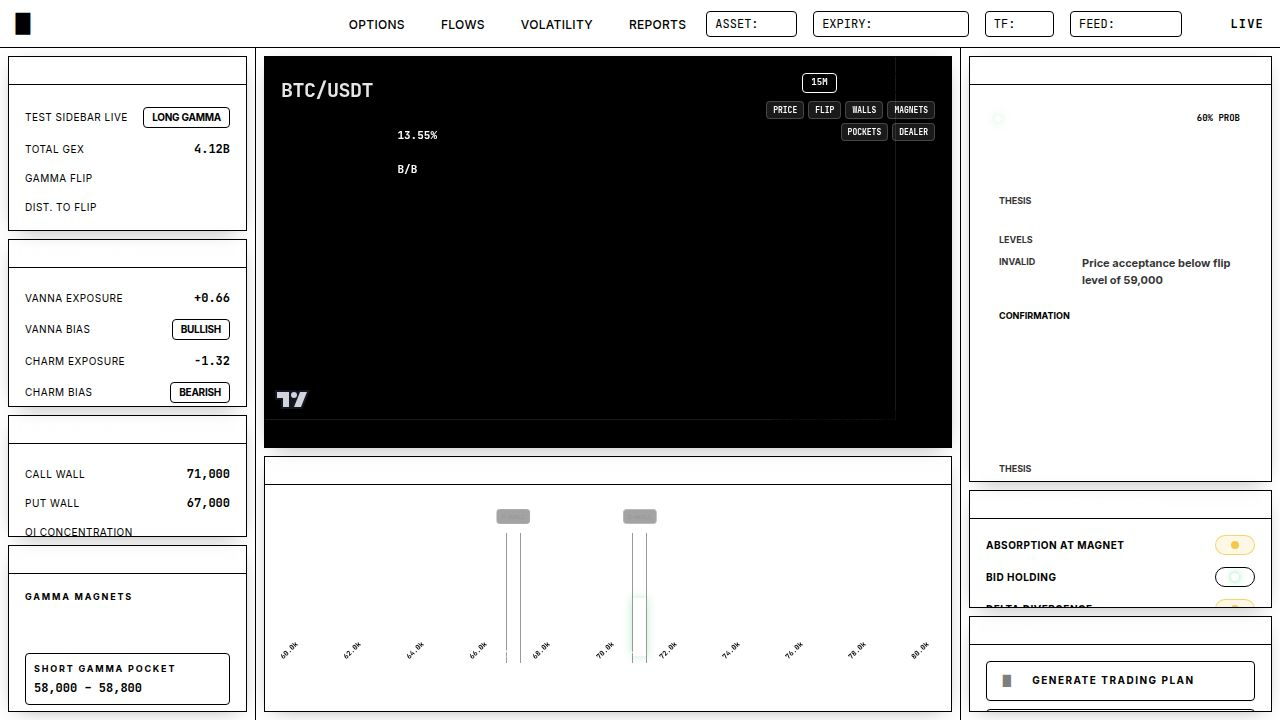
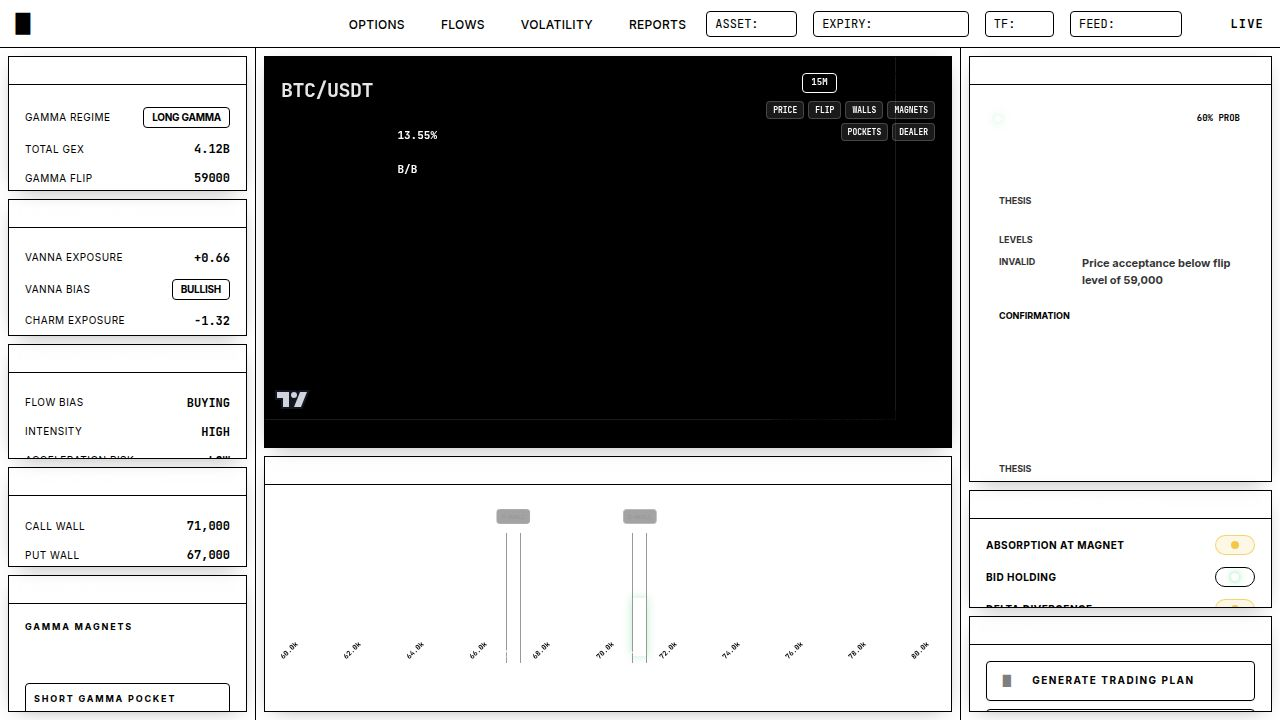
Add dealer hedging flow analysis and refine gamma pressure calculation
Integrate a new Dealer Hedging Flow module, including backend calculations, API endpoint, and UI display. Refine the Gamma Pressure metric for increased sensitivity and meaningful output.

Replit-Commit-Author: Agent
Replit-Commit-Session-Id: f6c5170a-22e2-47a2-be42-87f4565b3f5b
Replit-Commit-Checkpoint-Type: full_checkpoint
Replit-Commit-Event-Id: a586740a-4a23-4717-a480-50467d6e0d43
Replit-Commit-Screenshot-Url: https://storage.googleapis.com/screenshot-production-us-central1/0816ca60-048d-4c47-9f02-2b324f40955c/f6c5170a-22e2-47a2-be42-87f4565b3f5b/LTFxBRZ
Replit-Helium-Checkpoint-Created: true

Changed region(s): [[0.0, 0.2444, 0.1875, 0.8861], [0.0, 0.9167, 0.1562, 0.9778], [0.0, 0.1528, 0.0938, 0.1833]]

diff --git a/server/storage.ts b/server/storage.ts
@@ -1,6 +1,6 @@
 import { 
-  marketState, dealerExposure, optionsPositioning, keyLevels, tradingScenarios, optionsData,
-  type MarketState, type DealerExposure, type OptionsPositioning, type KeyLevels, type TradingScenario, type OptionData
+  marketState, dealerExposure, optionsPositioning, keyLevels, tradingScenarios, optionsData, dealerHedgingFlow,
+  type MarketState, type DealerExposure, type OptionsPositioning, type KeyLevels, type TradingScenario, type OptionData, type DealerHedgingFlow
 } from "@shared/schema";
 import { parseOptionsCSV, calculateGEX, findGammaFlip, calculateVanna, calculateCharm, detectWalls, calculateKeyLevels, calculateAcceleration } from "./analytics";
 import { generateDynamicScenarios } from "./scenarios";
@@ -13,6 +13,7 @@ export interface IStorage {
   getKeyLevels(): Promise<KeyLevels | undefined>;
   getTradingScenarios(): Promise<TradingScenario[]>;
   getOptionsData(): Promise<OptionData[]>;
+  getDealerHedgingFlow(): Promise<DealerHedgingFlow | undefined>;
   recomputeAll(csvPath: string): Promise<void>;
 }
 
@@ -23,6 +24,7 @@ export class MemStorage implements IStorage {
   private keyLevels: KeyLevels | undefined;
   private tradingScenarios: TradingScenario[] = [];
   private optionsData: OptionData[] = [];
+  private dealerHedgingFlow: DealerHedgingFlow | undefined;
 
   constructor() {
     const csvPath = path.resolve(process.cwd(), "data", "deribit_options.csv");
@@ -77,12 +79,19 @@ export class MemStorage implements IStorage {
     const vanna = calculateVanna(data, spotPrice);
     const charm = calculateCharm(data, spotPrice);
     
+    let rawGammaPressure = 0;
+    data.forEach(d => {
+      const distancePct = Math.abs(d.strike - spotPrice) / spotPrice;
+      const spotWeight = Math.max(0.15, 1 - distancePct * 10);
+      rawGammaPressure += d.gamma * d.open_interest * spotWeight;
+    });
+
+    const totalAbsGamma = data.reduce((acc, d) => acc + Math.abs(d.gamma * d.open_interest), 0);
+    const gammaPressureValue = totalAbsGamma > 0 ? (rawGammaPressure / totalAbsGamma) : 0;
+    const normalizedPressure = Math.tanh(gammaPressureValue * 5); // Increased sensitivity
+    
     const totalOI = data.reduce((acc, d) => acc + d.open_interest, 0);
     const totalGammaExp = data.reduce((acc, d) => acc + (d.gamma * d.open_interest), 0);
-    const rawPressure = totalOI > 0 ? (totalGammaExp / totalOI) * spotPrice : 0;
-    const normalizedPressure = Math.tanh(rawPressure / 1000000);
-    
-    const totalAbsGamma = data.reduce((acc, d) => acc + Math.abs(d.gamma * d.open_interest), 0);
     const concentration = totalAbsGamma > 0 ? Math.abs(totalGammaExp) / totalAbsGamma : 0;
 
     const de: DealerExposure = {
@@ -96,6 +105,34 @@ export class MemStorage implements IStorage {
       timestamp: new Date()
     };
     this.dealerExposure = de;
+
+    // DEALER HEDGING FLOW CALCULATION
+    const hedgeFlowBias = (ms.gammaRegime === "LONG GAMMA") 
+      ? (de.vannaBias === "BULLISH" || de.charmBias === "BULLISH" ? "BUYING" : "NEUTRAL")
+      : (de.vannaBias === "BEARISH" || de.charmBias === "BEARISH" ? "SELLING" : "NEUTRAL");
+
+    const flowIntensityScore = Math.abs(de.vannaExposure) + Math.abs(de.charmExposure);
+    const hedgeFlowIntensity = flowIntensityScore > 1.0 ? "HIGH" : flowIntensityScore > 0.4 ? "MEDIUM" : "LOW";
+
+    const accelerationRisk = (ms.gammaRegime === "SHORT GAMMA" && (de.vannaBias === "BEARISH" || de.charmBias === "BEARISH")) ? "HIGH" : "LOW";
+
+    const flowTriggerUp = [op.dealerPivot, ms.gammaFlip, op.callWall]
+      .filter(l => l > spotPrice)
+      .sort((a, b) => a - b)[0] || op.callWall;
+
+    const flowTriggerDown = [op.dealerPivot, ms.gammaFlip, op.putWall]
+      .filter(l => l < spotPrice)
+      .sort((a, b) => b - a)[0] || op.putWall;
+
+    this.dealerHedgingFlow = {
+      id: 1,
+      hedgeFlowBias,
+      hedgeFlowIntensity,
+      accelerationRisk,
+      flowTriggerUp,
+      flowTriggerDown,
+      timestamp: new Date()
+    };
 
     this.tradingScenarios = generateDynamicScenarios(ms, op, kl, de);
 
@@ -118,6 +155,7 @@ export class MemStorage implements IStorage {
   async getKeyLevels() { return this.keyLevels; }
   async getTradingScenarios() { return this.tradingScenarios; }
   async getOptionsData() { return this.optionsData; }
+  async getDealerHedgingFlow() { return this.dealerHedgingFlow; }
 }
 
 export const storage = new MemStorage();

diff --git a/client/src/components/terminal/LeftSidebar.tsx b/client/src/components/terminal/LeftSidebar.tsx
@@ -1,6 +1,6 @@
 import { useQuery } from "@tanstack/react-query";
 import { TerminalPanel, TerminalValue } from "./TerminalPanel";
-import { MarketState, DealerExposure, OptionsPositioning, KeyLevels } from "@shared/schema";
+import { MarketState, DealerExposure, OptionsPositioning, KeyLevels, DealerHedgingFlow } from "@shared/schema";
 
 export function LeftSidebar() {
   const { data: market } = useQuery<MarketState>({ 
@@ -10,6 +10,11 @@ export function LeftSidebar() {
   
   const { data: dealer } = useQuery<DealerExposure>({ 
     queryKey: ["/api/dealer-exposure"],
+    refetchInterval: 5000 
+  });
+
+  const { data: flow } = useQuery<DealerHedgingFlow>({ 
+    queryKey: ["/api/dealer-hedging-flow"],
     refetchInterval: 5000 
   });
 
@@ -45,6 +50,14 @@ export function LeftSidebar() {
         <TerminalValue label="Charm Bias" value={dealer?.charmBias ?? "--"} trend={dealer?.charmBias === "BULLISH" ? "positive" : "negative"} isBadge />
         <TerminalValue label="Gamma Pressure" value={dealer?.gammaPressure ?? "--"} />
         <TerminalValue label="Gamma Concen." value={dealer ? dealer.gammaConcentration.toFixed(2) : "--"} />
+      </TerminalPanel>
+
+      <TerminalPanel title="DEALER HEDGING FLOW">
+        <TerminalValue label="Flow Bias" value={flow?.hedgeFlowBias ?? "--"} trend={flow?.hedgeFlowBias === "BUYING" ? "positive" : flow?.hedgeFlowBias === "SELLING" ? "negative" : "neutral"} />
+        <TerminalValue label="Intensity" value={flow?.hedgeFlowIntensity ?? "--"} />
+        <TerminalValue label="Acceleration Risk" value={flow?.accelerationRisk ?? "--"} trend={flow?.accelerationRisk === "HIGH" ? "negative" : "positive"} />
+        <TerminalValue label="Trigger Up" value={flow?.flowTriggerUp ? Math.round(flow.flowTriggerUp).toLocaleString() : "--"} />
+        <TerminalValue label="Trigger Down" value={flow?.flowTriggerDown ? Math.round(flow.flowTriggerDown).toLocaleString() : "--"} />
       </TerminalPanel>
 
       <TerminalPanel title="OPTIONS POSITIONING">

diff --git a/shared/schema.ts b/shared/schema.ts
@@ -66,12 +66,23 @@ export const optionsData = pgTable("options_data", {
   timestamp: timestamp("timestamp").defaultNow().notNull(),
 });
 
+export const dealerHedgingFlow = pgTable("dealer_hedging_flow", {
+  id: serial("id").primaryKey(),
+  hedgeFlowBias: text("hedge_flow_bias").notNull(), // "BUYING" | "SELLING" | "NEUTRAL"
+  hedgeFlowIntensity: text("hedge_flow_intensity").notNull(), // "LOW" | "MEDIUM" | "HIGH"
+  accelerationRisk: text("acceleration_risk").notNull(), // "LOW" | "HIGH"
+  flowTriggerUp: doublePrecision("flow_trigger_up").notNull(),
+  flowTriggerDown: doublePrecision("flow_trigger_down").notNull(),
+  timestamp: timestamp("timestamp").defaultNow().notNull(),
+});
+
 export const insertMarketStateSchema = createInsertSchema(marketState).omit({ id: true, timestamp: true });
 export const insertDealerExposureSchema = createInsertSchema(dealerExposure).omit({ id: true, timestamp: true });
 export const insertOptionsPositioningSchema = createInsertSchema(optionsPositioning).omit({ id: true, timestamp: true });
 export const insertKeyLevelsSchema = createInsertSchema(keyLevels).omit({ id: true, timestamp: true });
 export const insertTradingScenariosSchema = createInsertSchema(tradingScenarios).omit({ id: true, timestamp: true });
 export const insertOptionsDataSchema = createInsertSchema(optionsData).omit({ id: true, timestamp: true });
+export const insertDealerHedgingFlowSchema = createInsertSchema(dealerHedgingFlow).omit({ id: true, timestamp: true });
 
 export type MarketState = typeof marketState.$inferSelect;
 export type DealerExposure = typeof dealerExposure.$inferSelect;
@@ -79,3 +90,4 @@ export type OptionsPositioning = typeof optionsPositioning.$inferSelect;
 export type KeyLevels = typeof keyLevels.$inferSelect;
 export type TradingScenario = typeof tradingScenarios.$inferSelect;
 export type OptionData = typeof optionsData.$inferSelect;
+export type DealerHedgingFlow = typeof dealerHedgingFlow.$inferSelect;

diff --git a/server/routes.ts b/server/routes.ts
@@ -31,5 +31,10 @@ export async function registerRoutes(
     res.json(data);
   });
 
+  app.get("/api/dealer-hedging-flow", async (_req, res) => {
+    const data = await storage.getDealerHedgingFlow();
+    res.json(data);
+  });
+
   return httpServer;
 }
